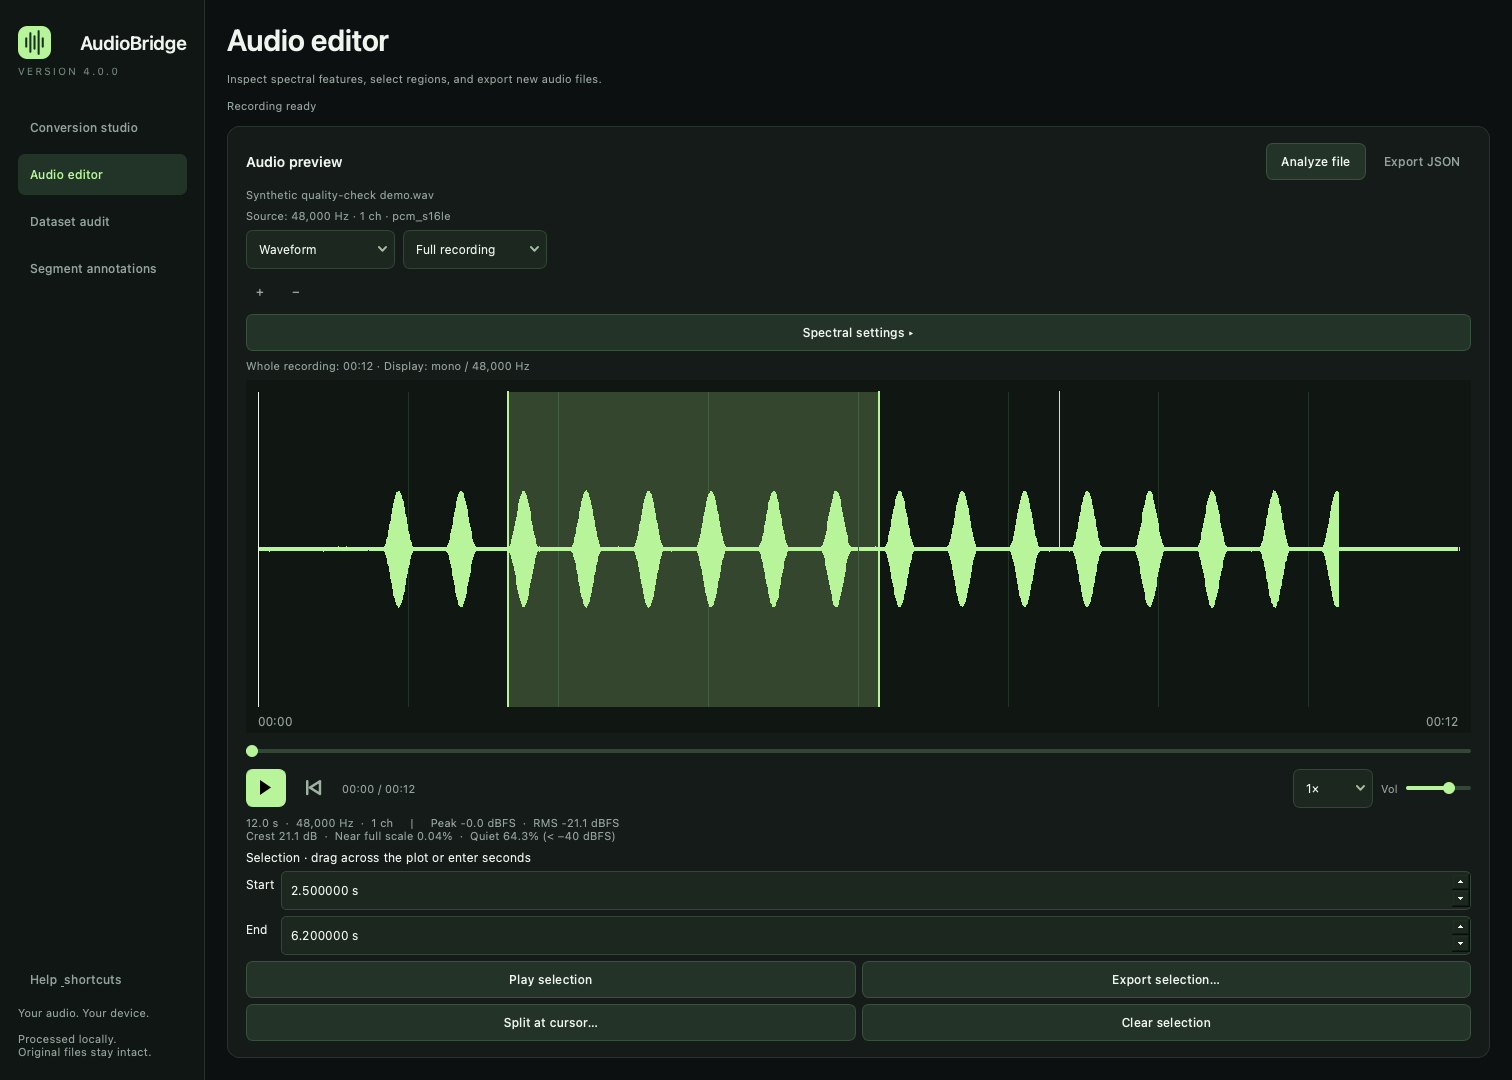
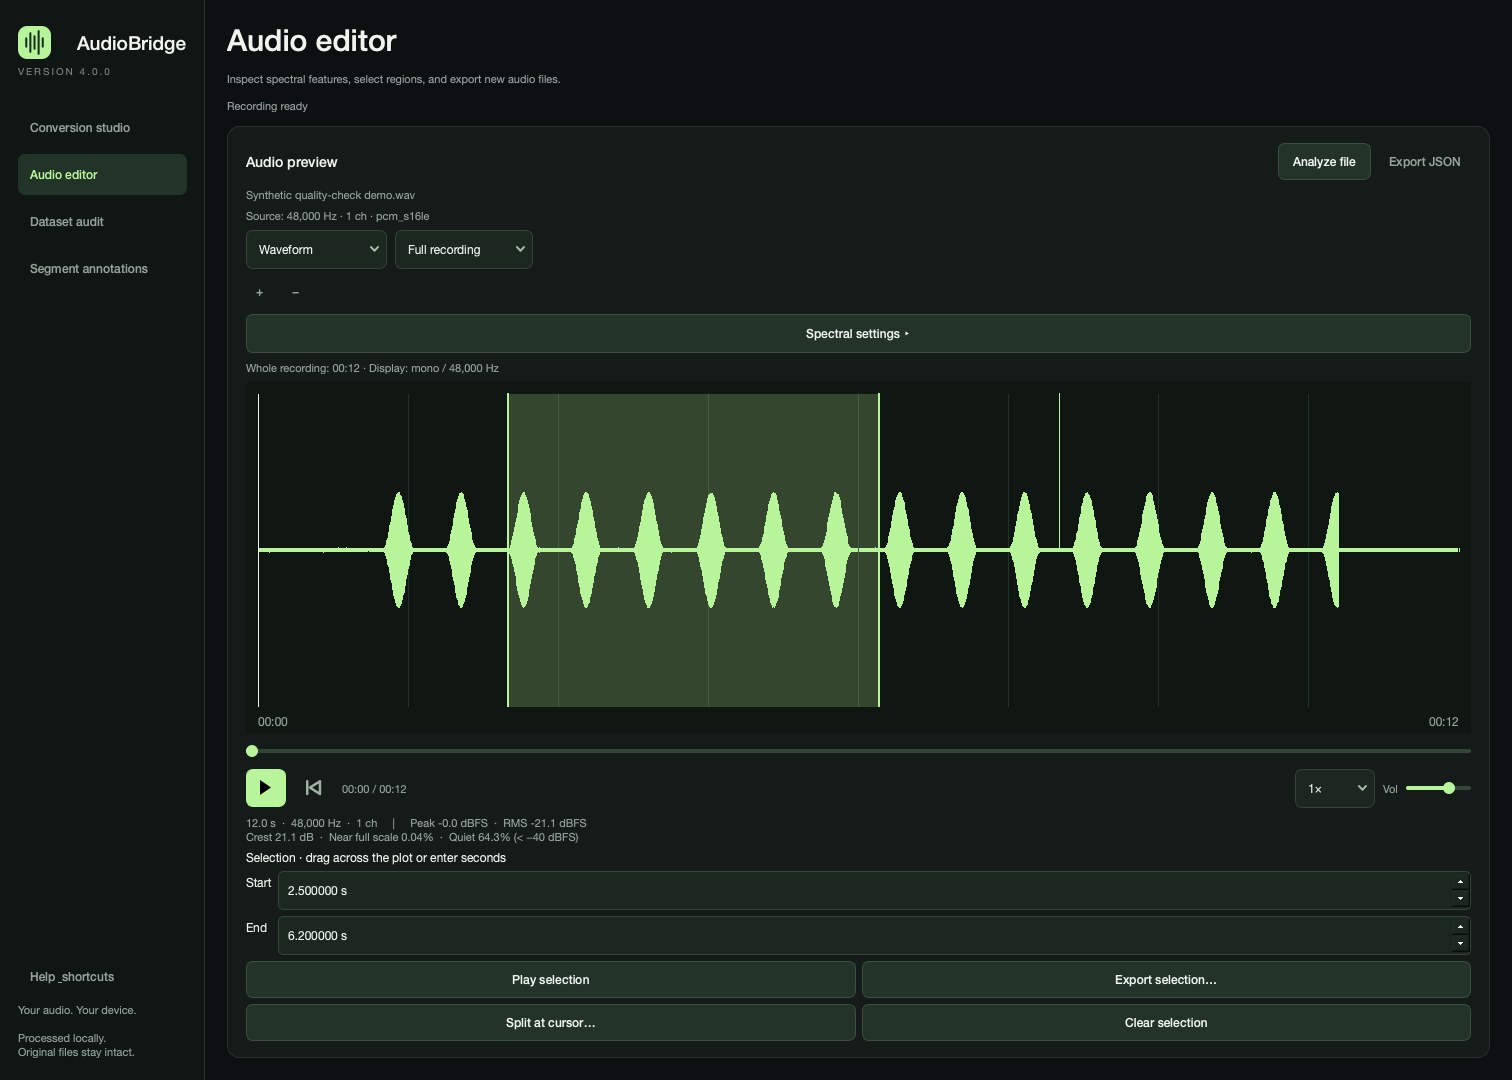
Use explicit macOS font fallbacks

diff --git a/ui/studio.py b/ui/studio.py
@@ -12,7 +12,7 @@ if sys.platform == "darwin":
     os.environ.setdefault("QT_MEDIA_BACKEND", "darwin")
 
 from PySide6.QtCore import QObject, QSize, Qt, QTimer, QUrl, Signal
-from PySide6.QtGui import QFontDatabase, QIcon, QKeySequence, QPixmap, QShortcut
+from PySide6.QtGui import QIcon, QKeySequence, QPixmap, QShortcut
 from PySide6.QtMultimedia import QAudioOutput, QMediaPlayer
 from PySide6.QtWidgets import (
     QApplication,
@@ -52,7 +52,7 @@ from version import __version__
 from .annotation_timeline import AnnotationTimeline
 from .editor_panel import EditorPanel
 from .region_playback import RegionPlayback
-from .resources import ASSET_DIR, ROOT, application_icon
+from .resources import ASSET_DIR, ROOT, application_icon, configure_application_font
 from .spectral_export import render_spectral_image
 from .widgets import FileQueue, button, card, clock, label
 
@@ -65,16 +65,13 @@ class Events(QObject):
 class AudioBridgeGUI(QMainWindow):
     def __init__(self):
         super().__init__()
+        configure_application_font(QApplication.instance())
         self.setWindowTitle(f"AudioBridge {__version__} · Conversion studio")
         self.setWindowIcon(application_icon())
         self.resize(1400, 950)
         self.setMinimumSize(420, 500)
-        font = QFontDatabase.systemFont(QFontDatabase.SystemFont.GeneralFont).family()
         self.setStyleSheet(
-            (ROOT / "ui" / "theme.qss")
-            .read_text()
-            .replace("@UI_FONT@", font)
-            .replace("@ASSET_DIR@", ASSET_DIR.as_posix())
+            (ROOT / "ui" / "theme.qss").read_text().replace("@ASSET_DIR@", ASSET_DIR.as_posix())
         )
         self.converter = AudioConverter()
         self.analyzer = AudioAnalyzer()

diff --git a/ui/resources.py b/ui/resources.py
@@ -5,11 +5,22 @@ import sys
 from pathlib import Path
 
 from PySide6.QtCore import Qt
-from PySide6.QtGui import QIcon, QPainter, QPixmap
+from PySide6.QtGui import QFont, QFontDatabase, QIcon, QPainter, QPixmap
 
 ROOT = Path(getattr(sys, "_MEIPASS", Path(__file__).resolve().parent.parent))
 ASSET_DIR = ROOT / "assets"
 ICON_SET = ASSET_DIR / "icons" / "AppIcon.appiconset"
+
+
+def configure_application_font(app):
+    font = QFont()
+    if sys.platform == "darwin":
+        font.setFamilies(
+            ["Helvetica Neue", "Kohinoor Devanagari", "Arial Unicode MS", "Apple Color Emoji"]
+        )
+    else:
+        font = QFontDatabase.systemFont(QFontDatabase.SystemFont.GeneralFont)
+    app.setFont(font)
 
 
 def application_icon():

diff --git a/audio_converter.py b/audio_converter.py
@@ -11,7 +11,7 @@ if sys.platform == "darwin":
 from PySide6.QtCore import QEventLoop, QTimer
 from PySide6.QtWidgets import QApplication, QMessageBox
 
-from ui.resources import application_icon
+from ui.resources import application_icon, configure_application_font
 from ui.startup import StartupSplash
 from version import __version__
 
@@ -21,6 +21,7 @@ def main():
     app.setApplicationName("AudioBridge")
     app.setApplicationVersion(__version__)
     app.setOrganizationName("AudioBridge")
+    configure_application_font(app)
     app.setWindowIcon(application_icon())
     app.setStyle("Fusion")
     splash = StartupSplash()

diff --git a/docs/DEVELOPMENT.md b/docs/DEVELOPMENT.md
@@ -45,3 +45,5 @@ Screenshots render the actual Qt widgets offscreen with generated audio; they do
 ## Branding assets
 
 `assets/icons/AppIcon.appiconset` retains the supplied square macOS icon catalog; macOS applies its own mask when it displays a bundled app icon. Qt masks the runtime icon with the rounded silhouette from `assets/audiobridge.png`, which is also used in the sidebar and README. `assets/icons/AudioBridge.ico` provides Windows icon sizes for executable packaging. The selected supplied splash art is `assets/splash.png`, center-cropped at display time for a desktop startup panel. It closes when the workspace is ready, with no forced delay. `ui/resources.py` resolves these paths for source and bundled runtimes.
+
+On macOS, the UI requests Helvetica Neue with explicit Indic and emoji fallback families instead of the private `.AppleSystemUIFont` alias. The stylesheet sets text size and color without overriding the selected font family.

diff --git a/CHANGELOG.md b/CHANGELOG.md
@@ -6,6 +6,7 @@
 - Added full-recording PNG export for spectrogram, Mel, and MFCC views, with time/value axes and analysis metadata.
 - Kept playback and file shortcuts available when dropdowns or time controls have focus; text entry keeps its normal key behavior.
 - Reworked annotations around waveform intervals and named tiers, with segment editing/playback and a versioned AudioBridge JSON export.
+- Replaced the private macOS system-font alias with explicit UI and Indic fallback fonts.
 
 ## 4.0.0 — 2026-11-17
 
